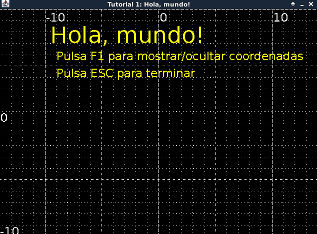
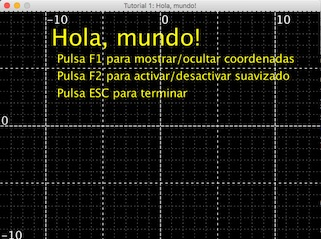
Antialiasing se puede activar/desactivar.
Solventado bug con split de líneas en escribeTexto()

diff --git a/src/info/macias/Ventana.java b/src/info/macias/Ventana.java
@@ -322,42 +322,44 @@ public class Ventana {
     }
 
     private void dibujaCoordenadas() {
-        Stroke last = fg.getStroke();
+        synchronized (fg) {
+            Stroke last = fg.getStroke();
 
-        float cv = (float)Math.min(campoVisionH,campoVisionV);
-        Stroke flojo = new BasicStroke((float)(0.5/cv), BasicStroke.CAP_BUTT, BasicStroke.JOIN_MITER, 10, new float[] { 1.0f/cv, 5.0f/cv }, 0.0f);
-        Stroke medio = new BasicStroke((float)(1/cv), BasicStroke.CAP_BUTT, BasicStroke.JOIN_MITER, 10, new float[] { 4.0f/cv, 5.0f/cv }, 0.0f);
-        Stroke gordo = new BasicStroke((float)(1.3/cv), BasicStroke.CAP_BUTT, BasicStroke.JOIN_MITER, 10, new float[] { 6f/cv, 2f/cv }, 0.0f);
-        fg.setColor(Color.white);
-        Line2D.Double l = new Line2D.Double();
-        for(int x = (int) (camX - campoVisionH / 2) ; x <= (int) (camX + campoVisionH / 2) ; x++) {
-            if(x % 10 == 0) {
-                fg.setStroke(gordo);
-                escribeTexto(String.valueOf(x), x + 0.1, camY + campoVisionV / 2 - 1.1, 1, Color.white);
+            float cv = (float) Math.min(campoVisionH, campoVisionV);
+            Stroke flojo = new BasicStroke((float) (0.5 / cv), BasicStroke.CAP_BUTT, BasicStroke.JOIN_MITER, 10, new float[]{1.0f / cv, 5.0f / cv}, 0.0f);
+            Stroke medio = new BasicStroke((float) (1 / cv), BasicStroke.CAP_BUTT, BasicStroke.JOIN_MITER, 10, new float[]{4.0f / cv, 5.0f / cv}, 0.0f);
+            Stroke gordo = new BasicStroke((float) (1.3 / cv), BasicStroke.CAP_BUTT, BasicStroke.JOIN_MITER, 10, new float[]{6f / cv, 2f / cv}, 0.0f);
+            fg.setColor(Color.white);
+            Line2D.Double l = new Line2D.Double();
+            for (int x = (int) (camX - campoVisionH / 2); x <= (int) (camX + campoVisionH / 2); x++) {
+                if (x % 10 == 0) {
+                    fg.setStroke(gordo);
+                    escribeTexto(String.valueOf(x), x + 0.1, camY + campoVisionV / 2 - 1.1, 1, Color.white);
 
-            } else if(x % 5 == 0) {
-                fg.setStroke(medio);
-            } else {
-                fg.setStroke(flojo);
+                } else if (x % 5 == 0) {
+                    fg.setStroke(medio);
+                } else {
+                    fg.setStroke(flojo);
+                }
+                l.setLine(x, camY - campoVisionV / 2, x, camY + campoVisionV / 2);
+                fg.draw(l);
+                //fg.drawLine((int)x, (int)( camY - campoVisionV / 2), (int)x, (int)(camY + campoVisionV / 2));
             }
-            l.setLine(x, camY - campoVisionV / 2, x, camY + campoVisionV / 2);
-            fg.draw(l);
-            //fg.drawLine((int)x, (int)( camY - campoVisionV / 2), (int)x, (int)(camY + campoVisionV / 2));
-        }
-        for(int y = (int) (camY - campoVisionV / 2) ; y <= (int) (camY + campoVisionV / 2) ; y++) {
-            if(y % 10 == 0) {
-                fg.setStroke(gordo);
-                escribeTexto(String.valueOf(y),  camX - campoVisionH / 2 + 0.1, y + 0.1, 1, Color.white);
-            } else if(y % 5 == 0) {
-                fg.setStroke(medio);
-            } else {
-                fg.setStroke(flojo);
+            for (int y = (int) (camY - campoVisionV / 2); y <= (int) (camY + campoVisionV / 2); y++) {
+                if (y % 10 == 0) {
+                    fg.setStroke(gordo);
+                    escribeTexto(String.valueOf(y), camX - campoVisionH / 2 + 0.1, y + 0.1, 1, Color.white);
+                } else if (y % 5 == 0) {
+                    fg.setStroke(medio);
+                } else {
+                    fg.setStroke(flojo);
+                }
+                l.setLine(camX - campoVisionH / 2, y, camX + campoVisionH / 2, y);
+                fg.draw(l);
+                //fg.drawLine((int)x, (int)( camY - campoVisionV / 2), (int)x, (int)(camY + campoVisionV / 2));
             }
-            l.setLine(camX - campoVisionH / 2, y, camX + campoVisionH / 2, y);
-            fg.draw(l);
-            //fg.drawLine((int)x, (int)( camY - campoVisionV / 2), (int)x, (int)(camY + campoVisionV / 2));
+            fg.setStroke(last);
         }
-        fg.setStroke(last);
     }
 
     /**
@@ -387,18 +389,13 @@ public class Ventana {
         String[] lineas = texto.split("\n");
         fg.setColor(color);
 
-        AffineTransform posicion = (AffineTransform) camara.clone();
-        posicion.translate(x, y);
-        posicion.scale(altoFuente/TAMAÑO_FUENTE_BASE, -altoFuente/TAMAÑO_FUENTE_BASE);
-        fg.setTransform(posicion);
-
         for(int i = 0 ; i < lineas.length ; i++) {
             Shape txt = font.createGlyphVector(fontRenderContext, lineas[i]).getOutline();
+            AffineTransform posicion = (AffineTransform) camara.clone();
+            posicion.translate(x, y - i * INTERLINEADO);
+            posicion.scale(altoFuente/TAMAÑO_FUENTE_BASE, -altoFuente/TAMAÑO_FUENTE_BASE);
+            fg.setTransform(posicion);
             fg.fill(txt);
-            posicion.translate(0, interlinea);
-
-            //
-//            fg.drawString(lineas[i], (float)x, (float)-y + i * interlinea);
         }
         fg.setTransform(camara);
     }
@@ -564,6 +561,14 @@ public class Ventana {
                 case KeyEvent.VK_F1:
                     dibujaCoordenadas = !dibujaCoordenadas;
                     break;
+                case KeyEvent.VK_F2:
+                    synchronized (fg) {
+                        if (fg.getRenderingHint(RenderingHints.KEY_ANTIALIASING) == RenderingHints.VALUE_ANTIALIAS_ON) {
+                            fg.setRenderingHint(RenderingHints.KEY_ANTIALIASING, RenderingHints.VALUE_ANTIALIAS_OFF);
+                        } else {
+                            fg.setRenderingHint(RenderingHints.KEY_ANTIALIASING, RenderingHints.VALUE_ANTIALIAS_ON);
+                        }
+                    }
             }
         }
 

diff --git a/src/info/macias/tutoriales/Tutorial1_HolaMundo.java b/src/info/macias/tutoriales/Tutorial1_HolaMundo.java
@@ -23,7 +23,8 @@ public class Tutorial1_HolaMundo {
             // Se escribe algo en el fotograma
             v.escribeTexto("Hola, mundo!", -9.5, 7, 2, Color.yellow);
             v.escribeTexto("Pulsa F1 para mostrar/ocultar coordenadas", -9, 5.5, 1, Color.yellow);
-            v.escribeTexto("Pulsa ESC para terminar", -9, 4, 1, Color.yellow);
+            v.escribeTexto("Pulsa F2 para activar/desactivar suavizado", -9, 4, 1, Color.yellow);
+            v.escribeTexto("Pulsa ESC para\nterminar", -9, 2.5, 1, Color.yellow);
             // Muestra el fotograma anterior, y crea uno nuevo
             v.actualizaFotograma();
         }   

diff --git a/README.md b/README.md
@@ -26,7 +26,7 @@ Some screenshots:
 
 ![](shot3.jpg)
 
-![](shot4.png)
+![](shot4.jpg)
 
 Si te gustan mis aportaciones a github, quizás te gustará mi libro [Del bit a la Nube](http://www.xaas.guru/del-bit-a-la-nube/)
 
